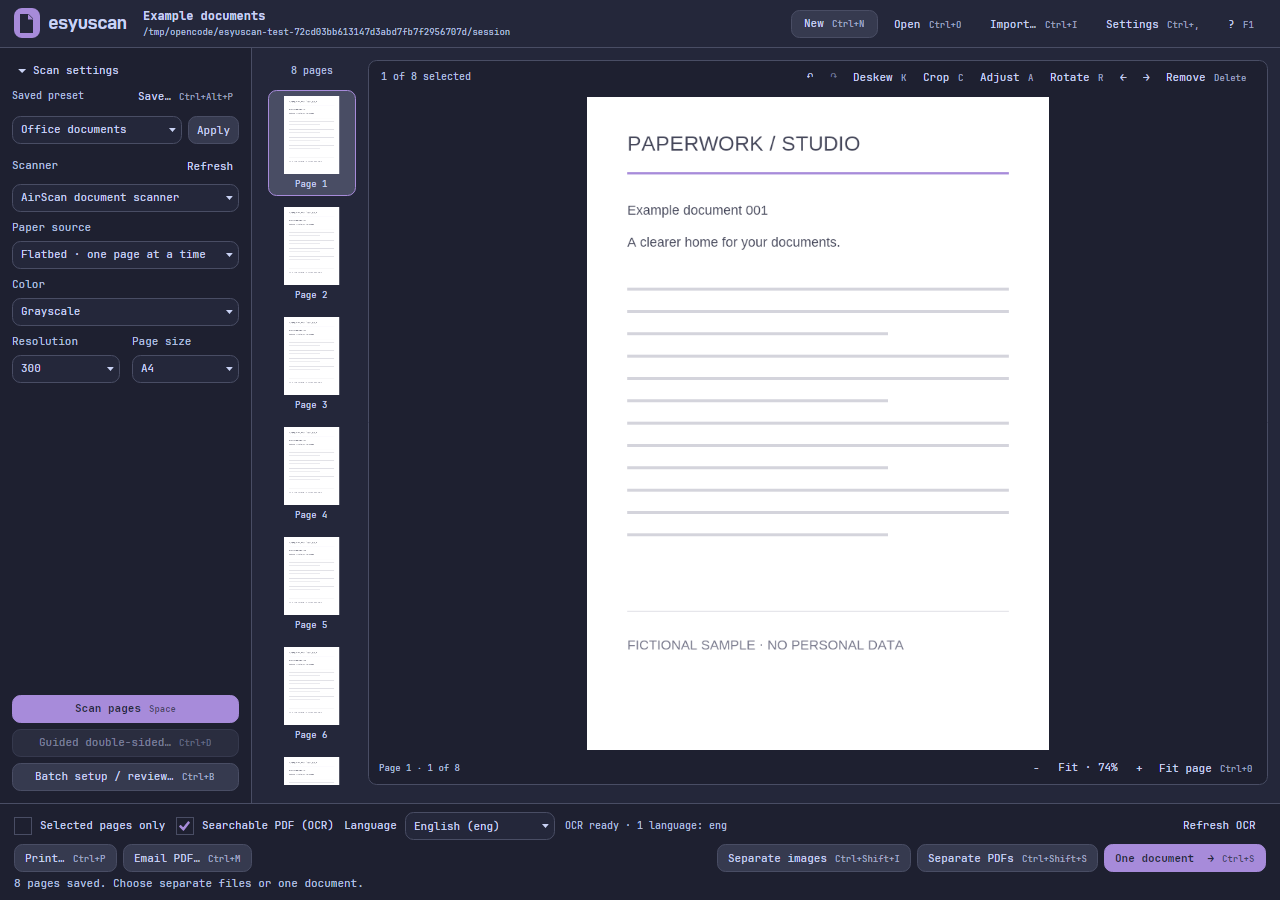
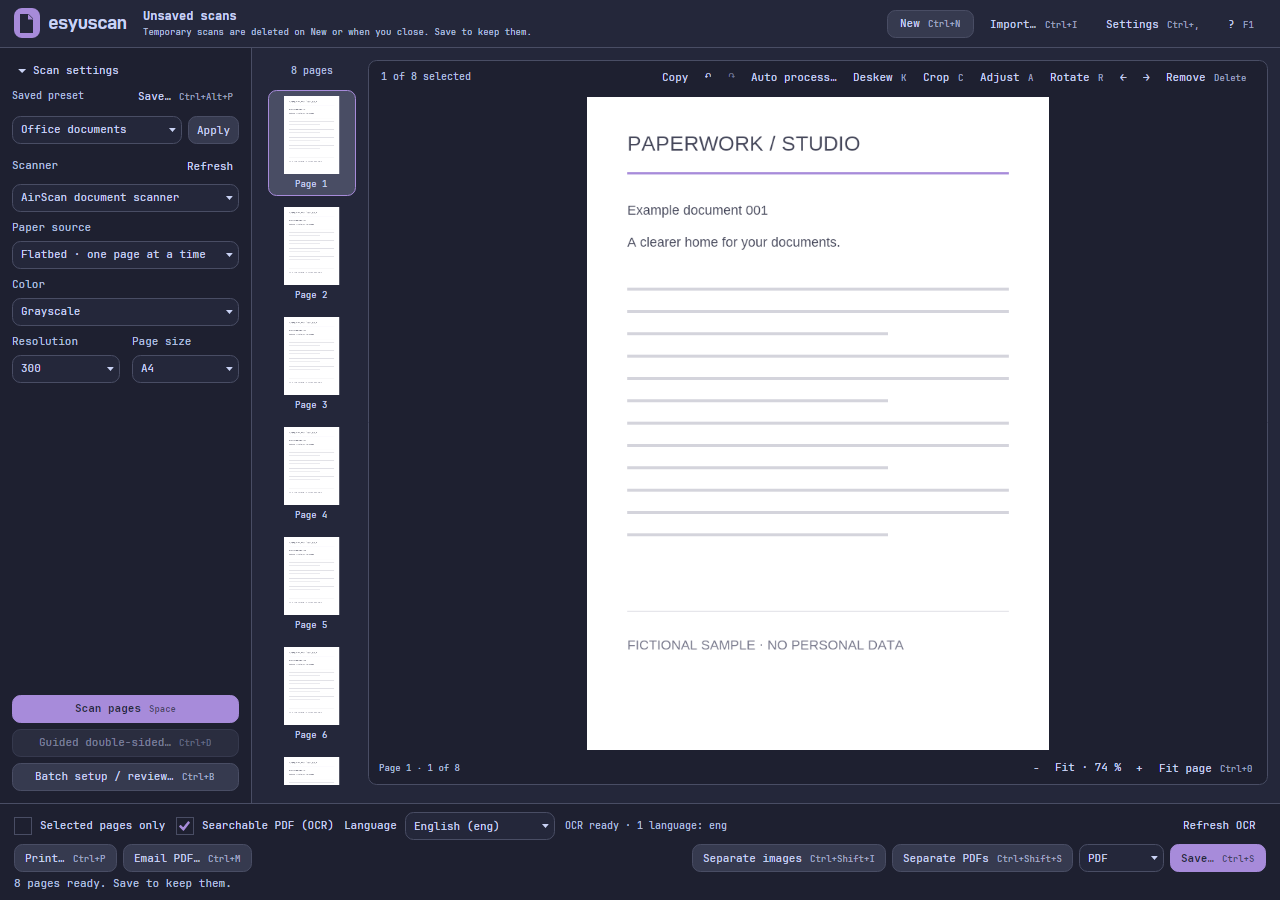
Refresh README and screenshot for current scanning workspace

diff --git a/tests/Scan.Tests/UiTests.cs b/tests/Scan.Tests/UiTests.cs
@@ -907,7 +907,7 @@ public sealed class UiTests : TestFiles
         model.SetCapabilities(model.SelectedDevice!, ScanTestData.Caps());
         model.PresetName = "Office documents";
         model.SavePreset();
-        model.Status = busy ? "Exporting document… 4 of 8 pages" : "8 pages saved. Choose separate files or one document.";
+        model.Status = busy ? "Saving document… 4 of 8 pages" : "8 pages ready. Save to keep them.";
         model.SetOcrAvailability(new(true, ["eng"], "OCR ready · 1 language: eng"));
         model.SearchablePdf = true;
         model.Busy = busy;

diff --git a/README.md b/README.md
@@ -19,6 +19,10 @@ save them as PDF, PNG, JPEG or TIFF. New and closing remove temporary scans;
 Import adds one or more existing documents. Optional OCR uses an installed Tesseract.
 The scanning and document backend is the unmodified NAPS2 SDK.
 
+Crop, rotate and adjust pages, or use **Auto process…** for automatic deskew and
+document or photo cleanup. **Copy** (Ctrl+C) copies the current edited page as a
+full-resolution image for pasting into another app.
+
 The screenshot uses generated demo pages, not private documents or scanner IDs.
 
 ## Build and run

diff --git a/docs/usage.md b/docs/usage.md
@@ -364,7 +364,8 @@ Tests use generated documents, temporary directories, and a headless renderer.
 To regenerate the screenshot with fictional content:
 
 ```sh
-ESYUSCAN_SCREENSHOT_DIR="$PWD/docs" make test ARGS='--filter FullyQualifiedName~RenderDocumentWorkspace'
+ESYUSCAN_SCREENSHOT_DIR="$PWD/artifacts/screenshots" make test ARGS='--filter FullyQualifiedName~RenderDocumentWorkspace'
+cp artifacts/screenshots/esyuscan-1280-ready.png docs/esyuscan.png
 ```
 
 `NativeText.cs` makes Avalonia and GTK use the same system HarfBuzz on Linux.
